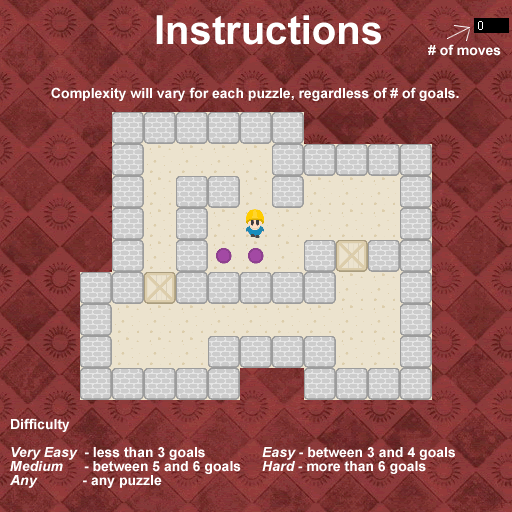
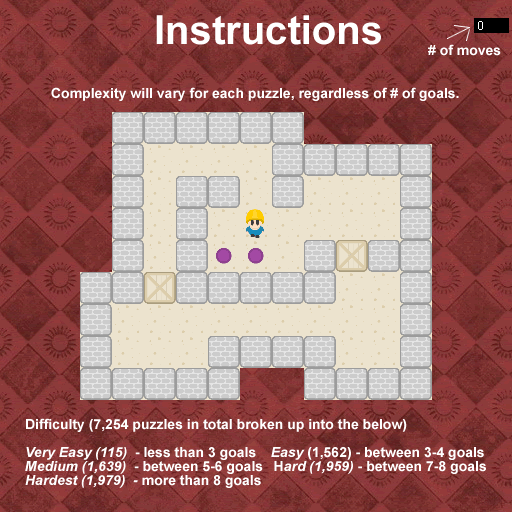
tweaked level difficulty

Changed region(s): [[0.0, 0.875, 0.9688, 0.9688], [0.0, 0.8125, 0.8125, 0.8438]]

diff --git a/src/com/gamesbykevin/sokoban/level/Levels.java b/src/com/gamesbykevin/sokoban/level/Levels.java
@@ -28,7 +28,7 @@ public final class Levels implements Disposable, IElement
     public static final int DIFFICULTY_EASY = 1;
     public static final int DIFFICULTY_MEDIUM = 2;
     public static final int DIFFICULTY_HARD = 3;
-    public static final int DIFFICULTY_ANY = 4;
+    public static final int DIFFICULTY_HARDEST = 4;
     
     //the difficulty setting
     private final int difficulty;
@@ -92,8 +92,8 @@ public final class Levels implements Disposable, IElement
      * Very Easy Less than 3 boxes<br>
      * Easy - Between 3 and 4 boxes<br>
      * Medium - Between 5 and 6 boxes<br>
-     * Hard - More than 6 boxes<br>
-     * Any - Any number of boxes<br>
+     * Hard - Between 7 and 8 boxes<br>
+     * Hardest - More than 8 boxes<br>
      * @param level The level we want to add
      * @throws Exception if difficulty is not setup here
      */
@@ -102,34 +102,34 @@ public final class Levels implements Disposable, IElement
         //does the level meet the difficulty setting
         boolean pass = false;
         
+        //get the box count
+        final int boxCount = level.getBoxCount();
+        
         switch (difficulty)
         {
             case DIFFICULTY_VERY_EASY:
-                if (level.getBoxCount() < 3)
+                if (boxCount < 3)
                     pass = true;
-                    
                 break;
             
             case DIFFICULTY_EASY:
-                if (level.getBoxCount() >= 3 && level.getBoxCount() <= 4)
+                if (boxCount >= 3 && boxCount <= 4)
                     pass = true;
-                
                 break;
                 
             case DIFFICULTY_MEDIUM:
-                if (level.getBoxCount() >= 5 && level.getBoxCount() <= 6)
+                if (boxCount >= 5 && boxCount <= 6)
                     pass = true;
-                
                 break;
                 
             case DIFFICULTY_HARD:
-                if (level.getBoxCount() > 6)
+                if (boxCount >= 7 && boxCount <= 8)
                     pass = true;
-                
                 break;
                 
-            case DIFFICULTY_ANY:
-                pass = true;
+            case DIFFICULTY_HARDEST:
+                if (boxCount > 8)
+                    pass = true;
                 break;
                 
             default:
